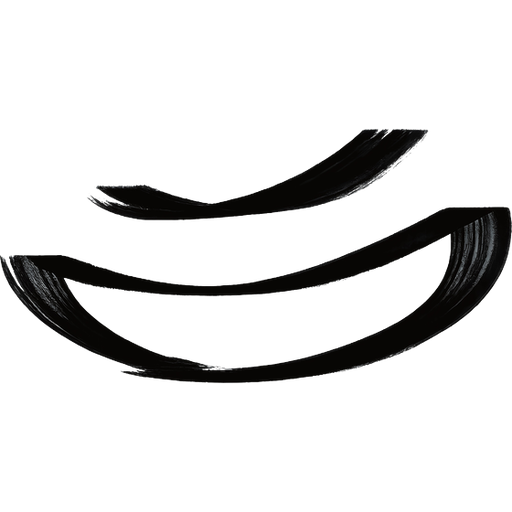
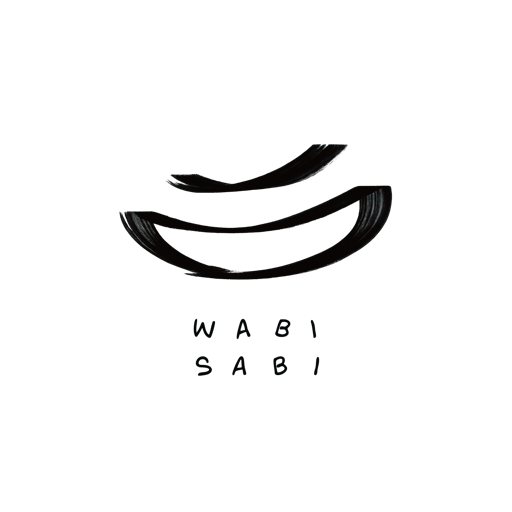
feat: 모바일 카테고리 플랫 탭바 + PWA 아이콘 브랜드 로고 교체 (#407)
* feat(pwa): 아이콘을 브랜드 붓 로고(사발+WABI SABI)로 교체

기존 아이콘 → 대표님 제공 브랜드 로고(3464²)를 512²로 리사이즈해
public/brand/icon.png 교체. manifest any+maskable 이 이 파일을 참조.

* feat(shop): 모바일 카테고리를 플랫 탭바로 — 드롭다운 제거

드롭다운 방식이 직관성이 낮다는 대표님 피드백(Have Haus 참고). 모바일/태블릿
분류를 한눈에 보이는 플랫 탭바로 교체 — 특수(전체·이 달·오늘의) + 대분류(굵게)
+ 소분류를 가운데 정렬로 줄바꿈 배치, 선택 항목은 진하게+밑줄. 데스크톱은
좌측 ShopSidebar 그대로. 미사용 MobileCategoryDropdown 삭제(HEAD~1 에 포함됨).

---------

diff --git a/web/src/components/mobile-category-tabs.tsx b/web/src/components/mobile-category-tabs.tsx
@@ -1,0 +1,97 @@
+import Link from "next/link";
+import { MONTHLY_SLUG, type CategoryNode } from "@/lib/site";
+import { buildShopQuery, type ShopSP } from "@/lib/shop-url";
+import { cn } from "@/lib/utils";
+
+// 모바일/태블릿 카테고리 — 드롭다운 대신 한눈에 보이는 플랫 탭바(대표님, Have Haus
+// 참고 — 드롭다운은 직관성↓). 특수(전체·이 달·오늘의) + 대분류(굵게) + 소분류를
+// 가운데 정렬로 줄바꿈해 흩어 놓는다. 선택 항목은 진하게+밑줄. 데스크톱은 좌측
+// 사이드바(ShopSidebar)를 그대로 쓰므로 이 컴포넌트는 lg 미만에서만 노출.
+
+function Tab({
+  href,
+  active,
+  className,
+  children,
+}: {
+  href: string;
+  active: boolean;
+  className?: string;
+  children: React.ReactNode;
+}) {
+  return (
+    <Link
+      href={href}
+      aria-current={active ? "true" : undefined}
+      className={cn(
+        "text-sm leading-none transition active:opacity-40",
+        active
+          ? "font-semibold text-wabi-fg underline underline-offset-[6px]"
+          : "text-wabi-fg-muted hover:text-wabi-fg",
+        className,
+      )}
+    >
+      {children}
+    </Link>
+  );
+}
+
+export function MobileCategoryTabs({
+  sp,
+  tree,
+}: {
+  sp: ShopSP;
+  tree: CategoryNode[];
+}) {
+  const current = sp.category;
+
+  return (
+    <nav
+      aria-label="카테고리"
+      className="mt-6 flex flex-wrap items-center justify-center gap-x-4 gap-y-3 border-b border-wabi-border pb-6 lg:hidden"
+    >
+      <Tab href={buildShopQuery(sp, { category: undefined })} active={!current}>
+        전체
+      </Tab>
+      <Tab
+        href={buildShopQuery(sp, { category: MONTHLY_SLUG })}
+        active={current === MONTHLY_SLUG}
+        className="text-wabi-accent hover:text-wabi-accent"
+      >
+        <span aria-hidden className="mr-0.5">
+          ✦
+        </span>
+        이 달의 상품
+      </Tab>
+
+      {tree.map((node) => (
+        <div key={node.slug} className="contents">
+          {/* 대분류(굵게) = 그룹 전체보기 링크 */}
+          <Tab
+            href={buildShopQuery(sp, { category: node.slug })}
+            active={current === node.slug}
+            className="font-medium"
+          >
+            {node.ko}
+          </Tab>
+          {(node.children ?? []).map((c) => (
+            <Tab
+              key={c.slug}
+              href={buildShopQuery(sp, { category: c.slug })}
+              active={current === c.slug}
+            >
+              {c.ko}
+            </Tab>
+          ))}
+        </div>
+      ))}
+
+      <Tab href="/today" active={false} className="text-wabi-accent hover:text-wabi-accent">
+        <span aria-hidden className="mr-0.5">
+          ✦
+        </span>
+        오늘의 와비사비
+      </Tab>
+    </nav>
+  );
+}

diff --git a/web/src/app/shop/page.tsx b/web/src/app/shop/page.tsx
@@ -8,7 +8,7 @@ import { Reveal } from "@/components/reveal";
 import { Input } from "@/components/ui/input";
 import { MONTHLY_SLUG } from "@/lib/site";
 import { ShopSidebar } from "@/components/shop-sidebar";
-import { MobileCategoryDropdown } from "@/components/mobile-category-dropdown";
+import { MobileCategoryTabs } from "@/components/mobile-category-tabs";
 import { buildShopQuery, type ShopSP } from "@/lib/shop-url";
 import {
   getProducts,
@@ -70,21 +70,14 @@ export default async function ShopPage({
           .find((c) => c.slug === sp.category)?.ko ??
         "Shop");
 
-  // 모바일 분류 드롭다운 요약에 쓸 현재 선택 라벨 — 미선택은 "상품".
-  const catLabel = sp.category ? heading : "상품";
-
   return (
     <Container className="py-16">
       {/* 헤더 — 타이틀 ("N개 상품" 표기는 대표님 요청으로 제거) */}
       <h1 className="text-2xl font-semibold tracking-wide">{heading}</h1>
 
-      {/* 카테고리 (모바일·태블릿) — 드롭다운(대표님, 기본 접힘). 펴면 데스크톱
-          사이드바와 "똑같은 방식"의 그룹 목록을 그대로 재사용한다(웹처럼
-          TABLEWARE·OBJECTS 를 크게, 소분류를 그 아래로). 항목을 누르면 자동으로
-          닫혀 고른 분류의 상품이 바로 보인다(MobileCategoryDropdown). */}
-      <MobileCategoryDropdown label={catLabel}>
-        <ShopSidebar sp={sp} tree={tree} />
-      </MobileCategoryDropdown>
+      {/* 카테고리 (모바일·태블릿) — 한눈에 보이는 플랫 탭바(대표님, Have Haus 참고).
+          드롭다운은 직관성이 낮아 걷어냈다. 데스크톱은 좌측 사이드바 그대로. */}
+      <MobileCategoryTabs sp={sp} tree={tree} />
 
       <div className="mt-8 flex items-start gap-10">
         {/* 데스크톱 좌측 사이드바 — 소분류 토글 (#195, biomedium 참고) */}
